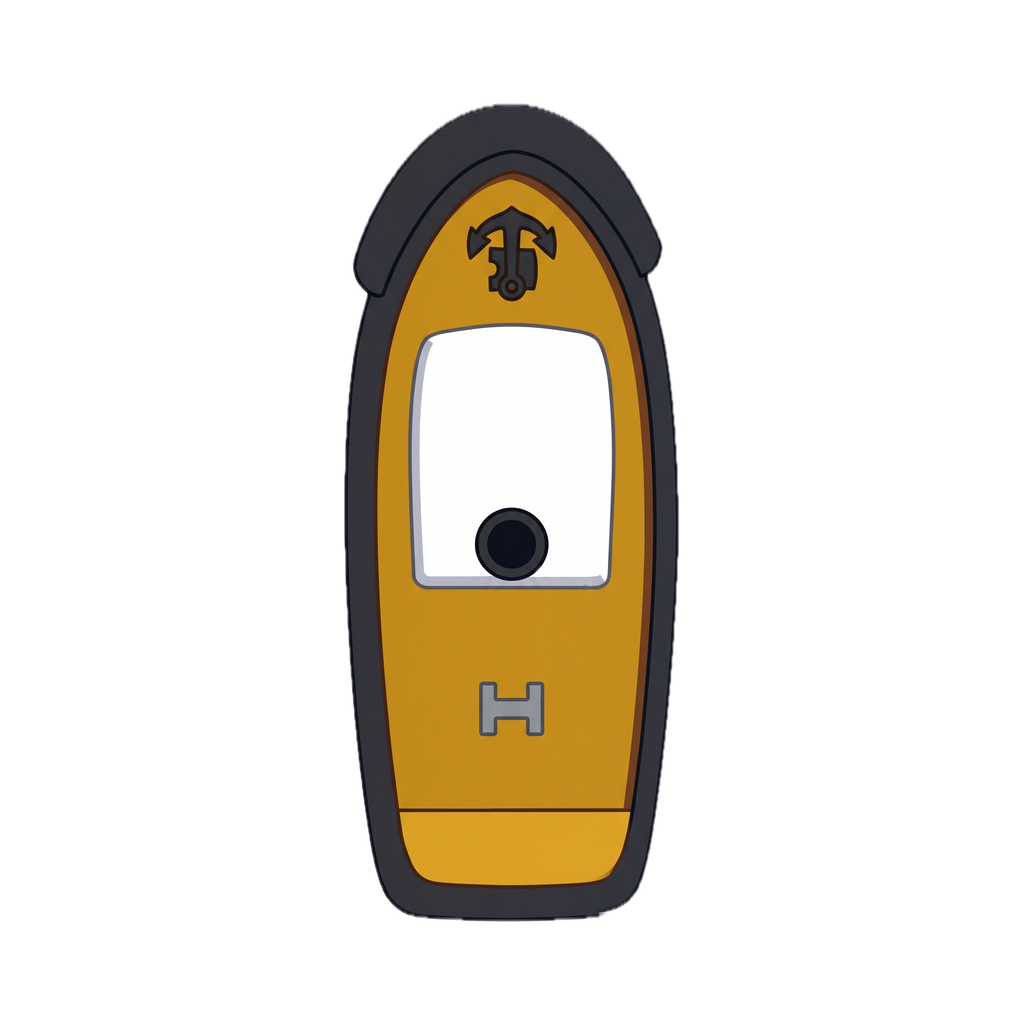
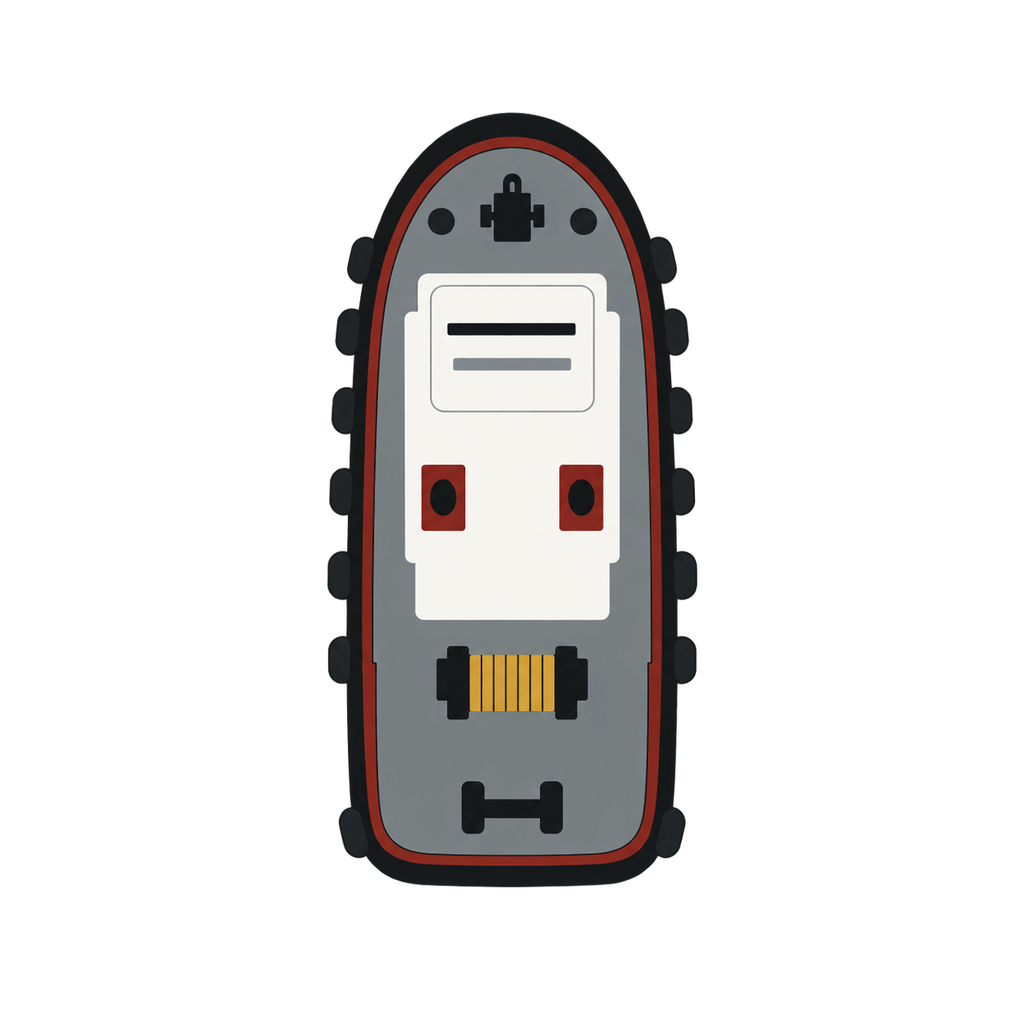
PT-015: redraw the Cove tug from real harbour tugs
Round 2 of cove-tugboat, from Wes's reference photos: black fendered hull
with tyres, white deckhouse, twin stacks in oxide-red casings, winch and
H-bitt aft. The manifest world is now 284 to match the kind (bake 3.5 to stay
under the master), and the kind hull widens to 0.44 for the tyres. Bay
traffic is still clash-free through the 10-minute race.

Changed region(s): [[0.3125, 0.0938, 0.6875, 0.9062]]

diff --git a/regatta/js/venuedoc.js b/regatta/js/venuedoc.js
@@ -938,7 +938,7 @@ const PROP_KINDS = {
     // water, and that is the unfairness the shoal note argues against — you cannot decide to
     // avoid something you cannot see. 16 fits the beam exactly and covers the middle ~40% of the
     // length.
-    'bay-cove-tugboat':      { label: 'Tugboat',           world: 284, plane: 'surface', contact: 'none', motion: 'fixed', hull: [0.921, 0.375], wake: { kind: 'kelvin' } },
+    'bay-cove-tugboat':      { label: 'Tugboat',           world: 284, plane: 'surface', contact: 'none', motion: 'fixed', hull: [0.919, 0.44], wake: { kind: 'kelvin' } },
     // The biggest hull in the game at 820u — over the 720u lead cargo ship, under the 870/920u
     // bridges it is meant to pass beneath. contact none for the family's reason and for the
     // geometric one: at 4.69:1 a circle fits it no better than it fits the ships.
